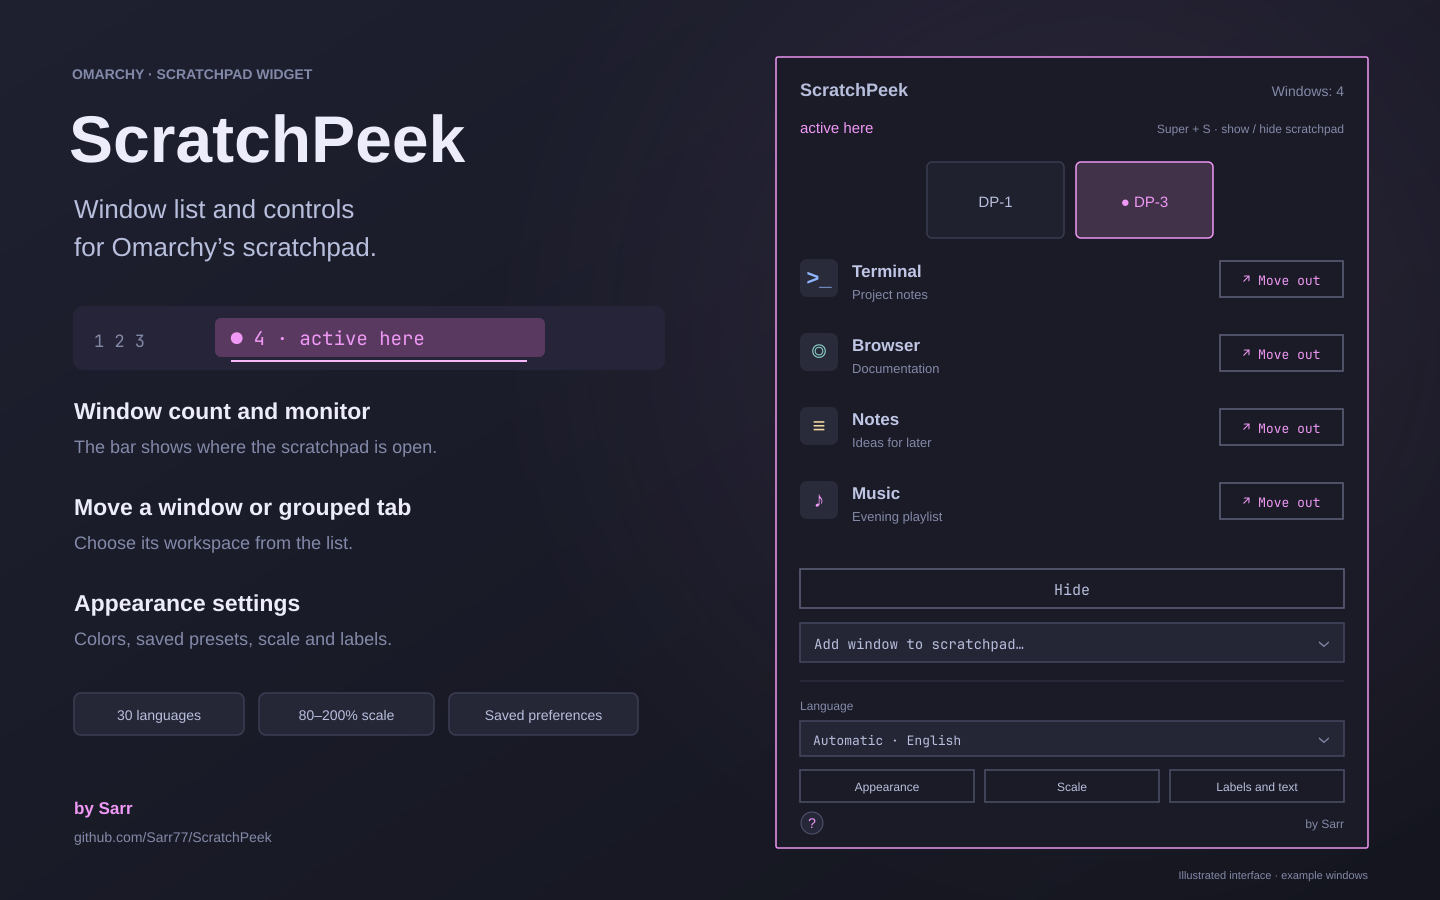
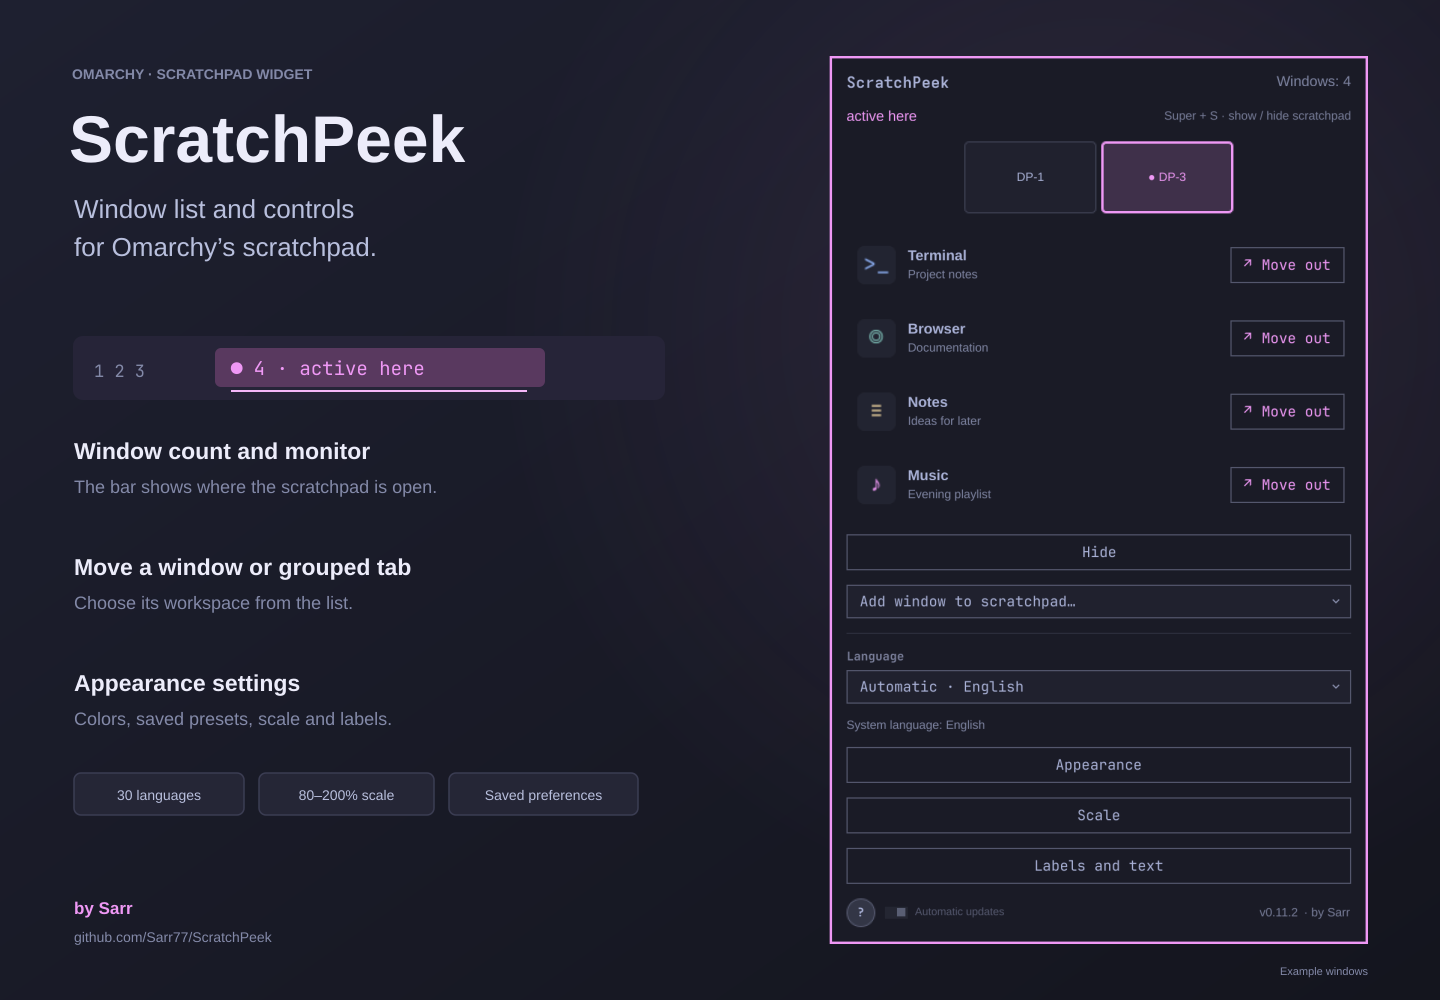
Refresh the preview and show it in the README

diff --git a/docs/PUBLISHING.md b/docs/PUBLISHING.md
@@ -10,7 +10,9 @@ repository is [Sarr77/ScratchPeek](https://github.com/Sarr77/ScratchPeek).
 - Description: A window list for Omarchy’s scratchpad. Switch to a window or tab,
   move it to a workspace, or add another window to the scratchpad.
 - Preview: [preview.png](../preview.png), with its source in
-  [docs/preview.svg](preview.svg). It is an illustration using example windows.
+  [docs/preview.svg](preview.svg) and the [panel image](preview-panel.png).
+  The graphic uses example windows. The previous PNG and SVG are kept for
+  [comparison](previews/README.md).
 
 ## Release steps
 

diff --git a/docs/TESTING.md b/docs/TESTING.md
@@ -58,7 +58,8 @@ separately from other window automation:
 
 They restore the affected layout and focus. Check panel placement, keyboard
 navigation, scaling and dropdowns on both monitors as well. The repository’s
-preview image is an illustration, not a screenshot from these tests.
+preview uses example windows and a separately rendered panel; it does not
+document these live checks.
 
 ## What these tests do not cover
 

diff --git a/docs/previews/README.md b/docs/previews/README.md
@@ -1,0 +1,7 @@
+# Preview comparison
+
+| Before 0.11.2 | 0.11.2 |
+| --- | --- |
+| [![Previous preview](preview-before-0.11.2.png)](preview-before-0.11.2.png) | [![Current preview](../../preview.png)](../../preview.png) |
+
+[Previous SVG](preview-before-0.11.2.svg) · [Current SVG](../preview.svg)

diff --git a/README.md b/README.md
@@ -9,6 +9,8 @@ are listed separately.
 [Polski](docs/README.pl.md) · [Preview](preview.png) ·
 [User guide](docs/GUIDE.md) · [Changelog](CHANGELOG.md)
 
+![ScratchPeek bar indicator and window list](preview.png)
+
 ## Installation
 
 ```sh

diff --git a/docs/README.pl.md b/docs/README.pl.md
@@ -9,6 +9,8 @@ osobno.
 [English](../README.md) · [Podgląd](../preview.png) ·
 [Instrukcja (EN)](GUIDE.md) · [Historia zmian](../CHANGELOG.md)
 
+![Wskaźnik na pasku i lista okien ScratchPeek](../preview.png)
+
 ## Instalacja
 
 ```sh
